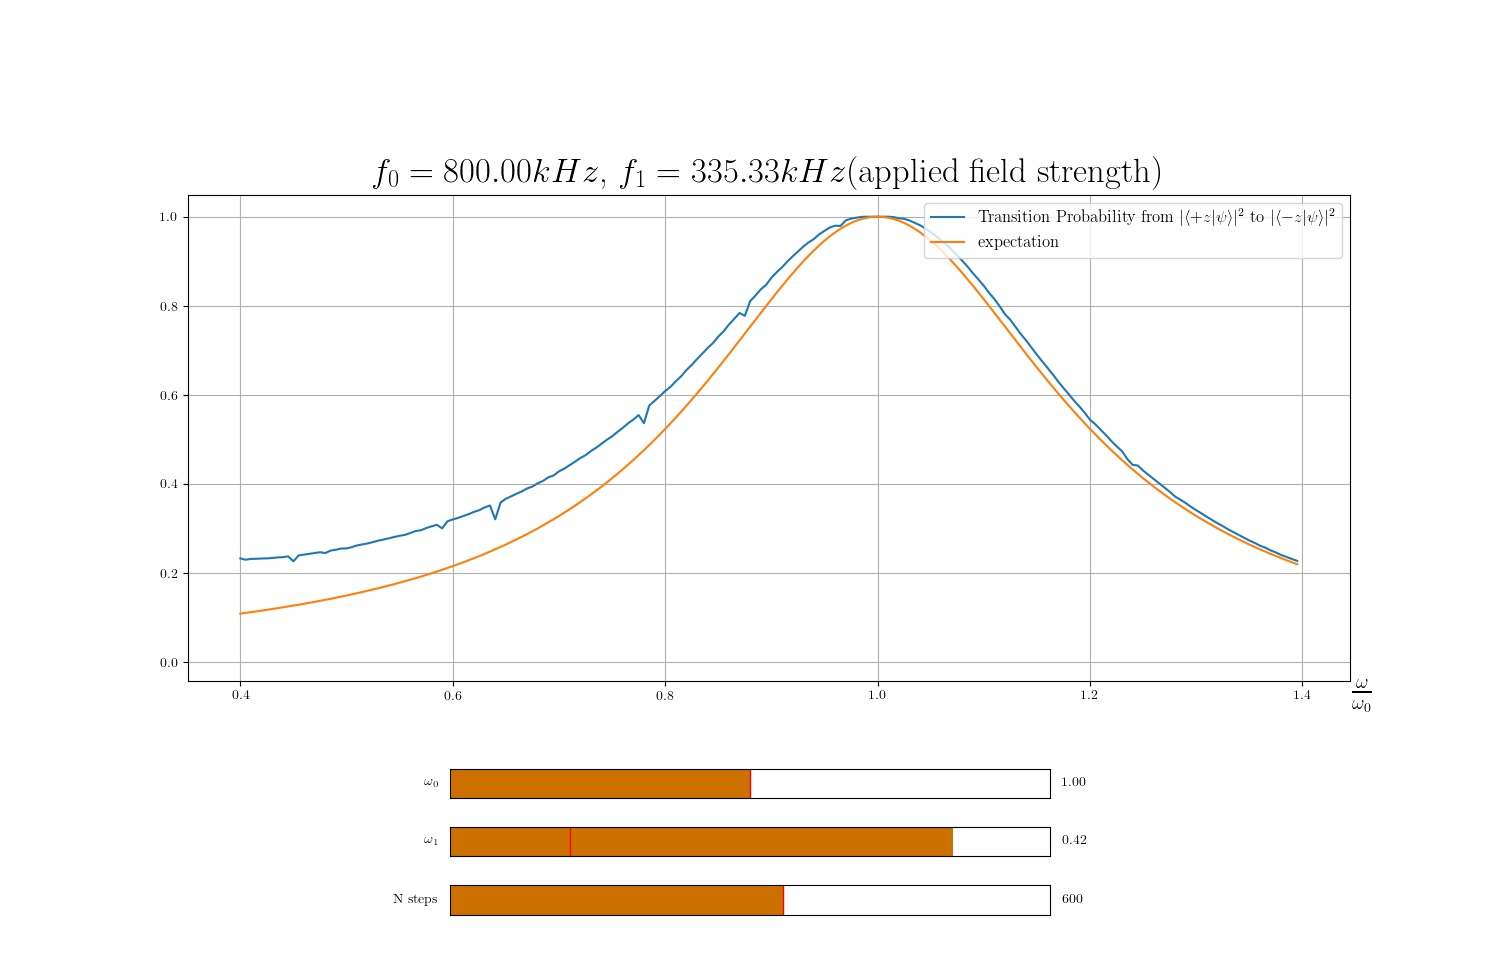
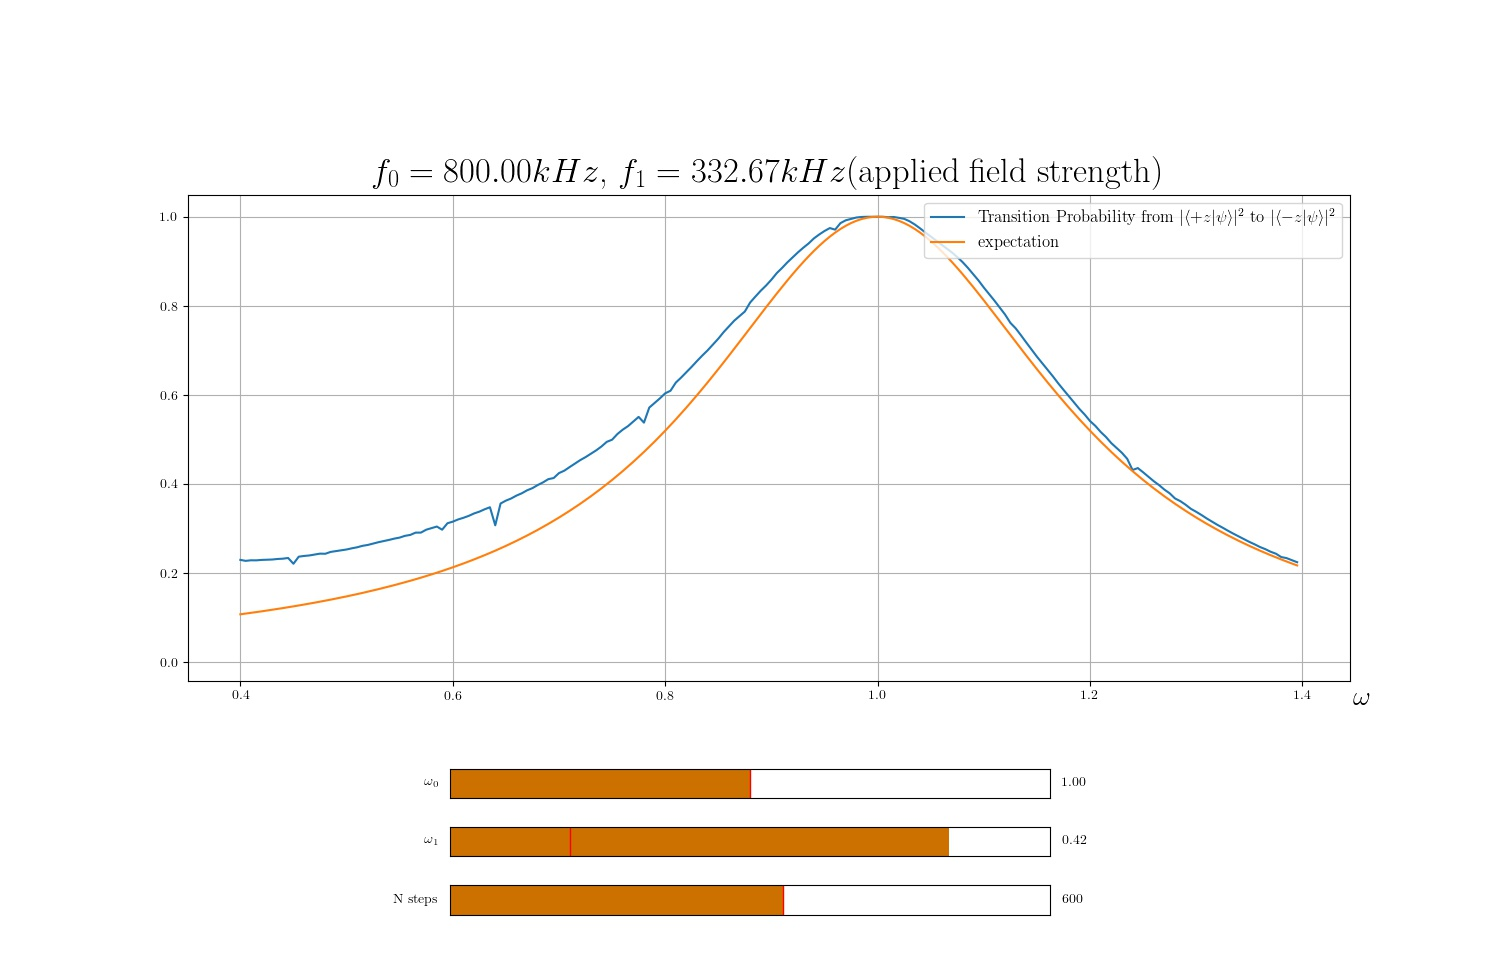
interpolate

diff --git a/interpolate.py b/interpolate.py
@@ -1,0 +1,83 @@
+import numpy as np
+from scipy.integrate import odeint 
+from scipy import interpolate
+import matplotlib.pyplot as plt
+from matplotlib.widgets import Slider #for making interactive plots
+# from SEQ import P_z, trans_rate_exp
+
+plt.rc('font',family ='serif') # use Latex in matplotlib
+plt.rc('text',usetex =True)
+
+### some paramters from adapted the data on Figure 4.3, Townsend
+g = 2 # g factor of electron
+q = 4.803207 *10**(-10) #  esu Gaussian units
+m = 1.883533* 10**(-25)  # g
+c = 3.0*10**10 #cm/s
+B0 = 60 #gauss
+B1 = 6  #gauss
+w00 = g*q/(2*m*c)*B0 
+w10 = g*q/(2*m*c)*B1
+T1 = 2*np.pi/w10 #12 microscond 12*10^-6, period of transition if w1 =  w10, 80kHz
+
+
+## evaluate the derivatives at a specific state at time t: 
+    #input: Psi, an array [aR,aI,bR,bI]; 
+    #        t, the specific time; 
+    #       and params, [w0,w1,w] the scale for all three frequencies
+
+def f(Psi,t,params):
+    w0,w1,w = params #w0,w1,w passed from the function input are scale numbers
+    w0 = w0*w00 # w0 is a scale, times with a factor of w00 to get the actual frequency
+    w1 = w1*w00
+    w = w*w00
+    aR = Psi[0] 
+    aI = Psi[1]
+    bR = Psi[2]
+    bI = Psi[3]
+    daR = 1/2*(w0*aI+w1*np.cos(w*t)*bI) # Real part of the derivative a
+    daI = -1/2*(w0*aR+w1*np.cos(w*t)*bR) # Imaginary part of the derivative a
+    dbR =  1/2*(w1*np.cos(w*t)*aI-w0*bI)
+    dbI =  -1/2*(w1*np.cos(w*t)*aR-w0*bR)
+    
+    return np.array([daR,daI,dbR,dbI])
+
+
+# find P_up, P_down and transition rate
+    # input: omega_0, omega_1, omega, initial condition of the spin state r0 
+    # out put: t: a array of time steps from 0 to 2T1 microseconds
+    #           P_up: an array of the probability of getting +z when we measure S_z at each time step
+    #           P_down: an array of the probability of getting -z when we measure S_z at each time step
+    #           transition_rate: the proportion of particles that transition from +z to -z, defined as the maximum value of P_down.def P_z(w0,w1,w,Psi0,N):
+def P_z(w0,w1,w,Psi0,N):
+    t = np.linspace(0,2*T1,N) #time step from t=0 to t= 2T1
+    params = [w0,w1,w] 
+    psoln = odeint(f, Psi0, t, args=(params,)) # solve by odeint
+    aR = psoln[:,0]
+    aI = psoln[:,1]
+    bR = psoln[:,2]
+    bI = psoln[:,3]
+    P_up = list(map(lambda r,i: abs(r+i*1j)**2,aR,aI))    # probablitly of measuring the spin-up: the magnitude square of the coefficent on |z+>
+    P_down = list(map(lambda r,i: abs(r+i*1j)**2,bR,bI))  # 
+    transition_rate = np.max(P_down)                      #defining as the maximum value of P_down as mentioned above
+    return t,P_up,P_down,transition_rate
+
+Psi0 = [1.,0.,0.,0.] # at t=0, Psi = |+z>
+w0,w1 = 1.,0.42 # default value
+f0,f1= np.array([w0,w1])*800 #kHZ for plot title
+w_list = np.arange(0.4,1.4,0.005) # a list of applied frequency values 
+rate = np.array(list(map(lambda w: P_z(w0,w1,w,Psi0,600), w_list)))[:,3] # find the transition rate at each applied freq
+
+f = interpolate.interp1d(w_list[::10], rate[::10],kind="cubic")  #interpolate based on the approximated solutions
+
+fig= plt.figure(figsize=(15,13))
+ax = fig.add_subplot(111)
+fig.subplots_adjust(bottom=0.3, top=0.8)
+ax.plot(w_list,rate,label='Transition Probability from $| \langle +z | \psi \\rangle |^2$ to $| \langle -z | \psi \\rangle |^2$')
+ax.plot(np.arange(0.4,1.35,0.01),f(np.arange(0.4,1.35,0.01)),label='interpolated')
+ax.legend(loc='upper right', fontsize='large')
+ax.set_xlabel('$\omega$', fontsize=20)
+ax.xaxis.set_label_coords(1.01, -0.01)
+ax.set_title('$\omega_0= %0.2f kHz$, $\omega_1 = %0.2f kHz$'%(w0,w1), fontsize=20)
+ax.grid(True)
+plt.savefig("C:/Users/lenovo/Desktop/PHYS302/PHYS302finalproject/PHYS302finalproject/interpolated.png")
+plt.show()

diff --git a/SEQ.py b/SEQ.py
@@ -168,7 +168,7 @@ transition_rate_line, = ax.plot(w_list,rate,label='Transition Probability from $
 exp_line, = ax.plot(w_list, trans_rate_exp(w0,w1,w_list),label="expectation")
 
 ax.legend(loc='upper right', fontsize='large')
-ax.set_xlabel('$\\frac{\omega}{\omega_0}$', fontsize=20)
+ax.set_xlabel('$\omega$', fontsize=20)
 ax.xaxis.set_label_coords(1.01, -0.01)
 ax.set_title('$f_0= %0.2f kHz$, $f_1 = %0.2f kHz$(applied field strength)'%(f0,f1), fontsize=20)
 ax.grid(True)
